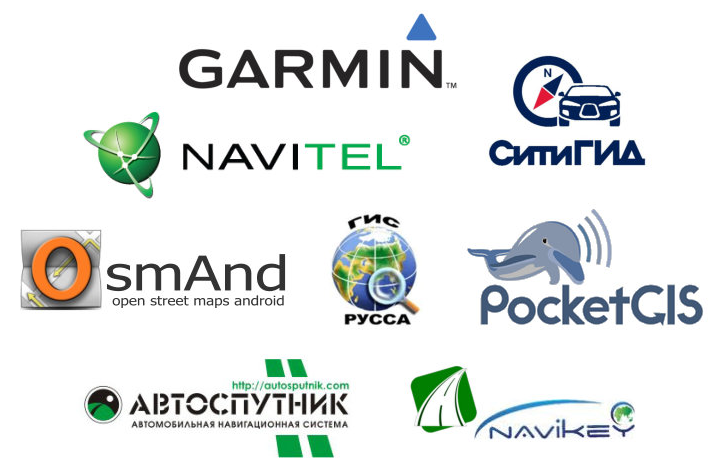
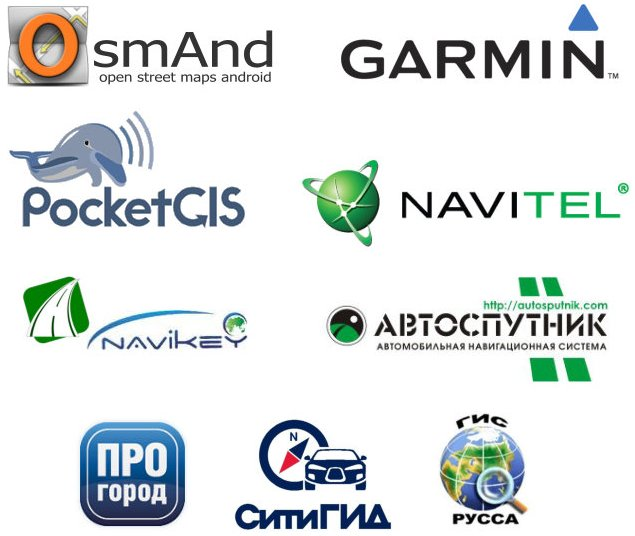
fixed #115, add progorod

diff --git a/www/navigator.php b/www/navigator.php
@@ -19,14 +19,15 @@ $page_content = <<<PHP_CONTENT
 <div id="ncontent">
   <img src="/img/navigators.png" usemap="#navigators">
   <map id="navigators" name="navigators">
-    <area id="garmin" shape="rect" coords="175,13,460,92" href="http://gis-lab.info/data/mp" target="blank">
-    <area id="navitel" shape="rect" coords="80,110,414,200" href="http://navitel.osm.rambler.ru/" target="blank">
-    <area id="cityguide" shape="rect" coords="486,51,650,172" href="http://peirce.gis-lab.info/daily" target="blank">
-    <area id="osmand" shape="rect" coords="15,224,295,317" href="http://osmand.net/" target="blank">
-    <area id="gisrussa" shape="rect" coords="325,207,425,329" href="http://osm-russa.narod.ru/" target="blank">
-    <area id="pocketgis" shape="rect" coords="463,205,710,330" href="http://probki77.ru/pgs/russia.php" target="blank">
-    <area id="autosputnik" shape="rect" coords="75,353,355,465" href="http://openstreetmaps.ru/" target="blank">
-    <area id="7ways" shape="rect" coords="405,360,646,445" href="http://www.megamaps.org/" target="blank">
+    <area id="garmin" shape="rect" coords="335,1,625,85" href="http://gis-lab.info/data/mp" target="blank">
+    <area id="navitel" shape="rect" coords="295,155,634,250" href="http://navitel.osm.rambler.ru/" target="blank">
+    <area id="cityguide" shape="rect" coords="230,415,395,535" href="http://peirce.gis-lab.info/daily" target="blank">
+    <area id="osmand" shape="rect" coords="1,1,275,95" href="http://osmand.net/" target="blank">
+    <area id="gisrussa" shape="rect" coords="435,405,535,530" href="http://osm-russa.narod.ru/" target="blank">
+    <area id="pocketgis" shape="rect" coords="1,105,250,235" href="http://probki77.ru/pgs/russia.php" target="blank">
+    <area id="autosputnik" shape="rect" coords="320,270,615,390" href="http://openstreetmaps.ru/" target="blank">
+    <area id="navikey" shape="rect" coords="15,270,255,355" href="http://www.megamaps.org/" target="blank">
+    <area id="progorod" shape="rect" coords="75,415,190,530" href="http://forum.pro-gorod.ru/viewtopic.php?f=190&t=712" target="blank">
   </map>
 </div>
 
